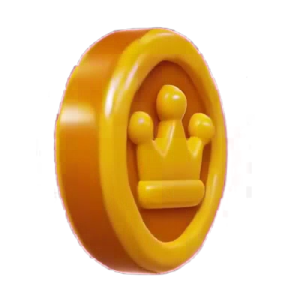
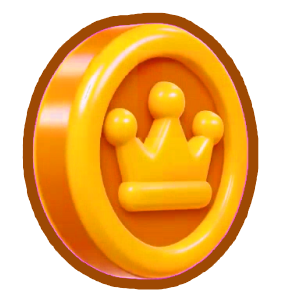
Coin: Allan's brighter coin with a lighter outline replaces the original (no toggle)
Claude-Session: https://claude.ai/code/session_01NtdD59FKe2D5p4YXTBGgrJ

diff --git a/index.html b/index.html
@@ -46,7 +46,6 @@ html.pitch #lvBar{order:3}html.pitch #top .grp{order:4}
 html.pitch #bRestart{display:none!important}
 #top{z-index:21}
 html.winning #lvBar,html.winning #top .grp{visibility:hidden}
-.coin-bright .fly-coin{background-image:url(art/world/coin-spin-bright.png)}
 .fly-coin{position:absolute;left:0;top:0;z-index:40;width:34px;height:34px;pointer-events:none;will-change:transform;background:url(art/world/coin-spin.png) 0 0/408px 34px no-repeat;animation:cspin .55s steps(12) infinite}
 @keyframes cspin{to{background-position:-408px 0}}
 .fly-plus{position:absolute;z-index:41;pointer-events:none;font:700 36px/1 var(--f-display);color:#FFDE3D;text-shadow:0 2px 0 #5B3A60,2px 0 #5B3A60,-2px 0 #5B3A60,0 -2px #5B3A60;animation:fplus 1.1s ease-out forwards}
@@ -372,7 +371,6 @@ const TYPES={
 const FEEL=[
  ['starRule','Stars are for',0,0,0,'seg'],
  ['starBonus','Bank bonus per new star (star 1 ×1, 2 ×2, 3 ×3)',0,50,5,'coins'],
- ['coinArt','Coin picture',0,0,0,'seg'],
  ['art','World art',0,0,0,'seg'],
  ['anchor','Platforms with a base (auto)',0,0,0,'seg'],
  ['bgDepth','Background depth (parallax)',0,2,0.05,'×'],
@@ -419,9 +417,9 @@ const FEEL=[
  ['guideAlways','Tutorial every time (even after clearing)',0,1,1,'bool'],
  ['guideDouble','Double tutorial',0,0,0,'seg']
 ];
-const DEF={coinArt:'bright',starBonus:10,guideDouble:'rhythm',splashMin:2,guideAlways:1,music:1,musicVol:0.5,guide:1,starRule:'slams',art:'painted',anchor:'wide',bgDepth:1,gravity:2600,bounce:1000,speed:270,slamSpeed:2600,windup:0.04,slamMult:1.29,comboStep:1.06,comboMax:4,late:0.08,drift:0,springMult:1.65,brkHits:2,brkThrough:1,zoom:1,look:120,turn:'chain',shake:1,sound:1,bounceSfx:1,restartOnDeath:1,deathArc:1,phoneFrame:1,intro:'fly',goalArrow:1,skin:'spine',boingSize:1.5,poseBlend:0.08,tilt:12,squashAmt:1,showHitbox:0,fastTurn:1,fastWindow:0.28,quickTurnAny:1,turnSfx:'jingle',chainReset:1,lateFair:1,v2:1,v3:1};
+const DEF={starBonus:10,guideDouble:'rhythm',splashMin:2,guideAlways:1,music:1,musicVol:0.5,guide:1,starRule:'slams',art:'painted',anchor:'wide',bgDepth:1,gravity:2600,bounce:1000,speed:270,slamSpeed:2600,windup:0.04,slamMult:1.29,comboStep:1.06,comboMax:4,late:0.08,drift:0,springMult:1.65,brkHits:2,brkThrough:1,zoom:1,look:120,turn:'chain',shake:1,sound:1,bounceSfx:1,restartOnDeath:1,deathArc:1,phoneFrame:1,intro:'fly',goalArrow:1,skin:'spine',boingSize:1.5,poseBlend:0.08,tilt:12,squashAmt:1,showHitbox:0,fastTurn:1,fastWindow:0.28,quickTurnAny:1,turnSfx:'jingle',chainReset:1,lateFair:1,v2:1,v3:1};
 const TURNS=[['every','Every slam'],['chain','Every slam after the 1st'],['second','Every 2nd slam'],['never','Never']];
-const SEGS={coinArt:[['bright','Brighter, outlined'],['original','Original']],guideDouble:[['rhythm','Tap-tap (one stop)'],['steps','Stop for each tap']],starRule:[['slams','Few slams'],['goals','3 goals'],['coins','Coins buy back slams']],art:[['painted','Painted (concept)'],['greybox','Greybox'],['plain','Plain (old)']],anchor:[['wide','Wide ones'],['all','All'],['none','None']],turnSfx:[['jingle','Old DOUBLE jingle'],['whoosh','Whoosh'],['blip','Small blip'],['off','Off']],intro:[['fly','Fly from flag'],['zoom','Zoom out, then in'],['off','Off']],turn:TURNS,skin:[['spine','Boing (Spine)'],['boing','Boing (pictures)'],['ball','Shape']]};
+const SEGS={guideDouble:[['rhythm','Tap-tap (one stop)'],['steps','Stop for each tap']],starRule:[['slams','Few slams'],['goals','3 goals'],['coins','Coins buy back slams']],art:[['painted','Painted (concept)'],['greybox','Greybox'],['plain','Plain (old)']],anchor:[['wide','Wide ones'],['all','All'],['none','None']],turnSfx:[['jingle','Old DOUBLE jingle'],['whoosh','Whoosh'],['blip','Small blip'],['off','Off']],intro:[['fly','Fly from flag'],['zoom','Zoom out, then in'],['off','Off']],turn:TURNS,skin:[['spine','Boing (Spine)'],['boing','Boing (pictures)'],['ball','Shape']]};
 
 const MEM={};
 const CLOUD={kv:null,ready:false,booted:false,localDirty:false,timer:0,busy:false,again:false,ref:null};
@@ -1095,7 +1093,7 @@ function drawBall(x,y,dir,opts){
 // the walk line is pixel row 8 of every cap picture. Anchored platforms use the stone cap on a layered brick base,
 // floating ones use the plank platform. Falls back to the greybox until the pictures have loaded.
 const ART_K=0.55, ART_DIR='art/world/', ART_WALK=8;
-const WIMG={};for(const n of ['cap-left','cap-mid','cap-right','float-left','float-mid','float-right','base-mid','base-bricks','deco-banner','deco-vine','bg-far','cloud-1','cloud-2','cloud-3','brk-left','brk-mid','brk-right','brk2-left','brk2-mid','brk2-right','brk2-cracked-left','brk2-cracked-mid','brk2-cracked-right','spring','spring-squash','spikes-mid','goal-flag','coin-world','coin-spin','coin-spin-bright','piece-bits','elev-deck-left','elev-deck-mid','elev-deck-right','elev-rail','elev-rail-cap','elev-arrow']){const i=new Image();i.src=ART_DIR+n+'.png';WIMG[n]=i}
+const WIMG={};for(const n of ['cap-left','cap-mid','cap-right','float-left','float-mid','float-right','base-mid','base-bricks','deco-banner','deco-vine','bg-far','cloud-1','cloud-2','cloud-3','brk-left','brk-mid','brk-right','brk2-left','brk2-mid','brk2-right','brk2-cracked-left','brk2-cracked-mid','brk2-cracked-right','spring','spring-squash','spikes-mid','goal-flag','coin-world','coin-spin','piece-bits','elev-deck-left','elev-deck-mid','elev-deck-right','elev-rail','elev-rail-cap','elev-arrow']){const i=new Image();i.src=ART_DIR+n+'.png';WIMG[n]=i}
 const wimgOk=n=>{const i=WIMG[n];return i&&i.complete&&i.naturalWidth>0};
 const paintOn=()=>feel.art==='painted'&&wimgOk('cap-mid')&&wimgOk('base-bricks')&&wimgOk('bg-far');
 const LOOKC=new Map();
@@ -1139,7 +1137,7 @@ function drawPaintedSpikes(o){const im=WIMG['spikes-mid'];if(!paintOn()||!wimgOk
   const h=28,tw0=64*h/48,n=Math.max(1,Math.round(o.w/tw0)),tw=o.w/n;for(let i=0;i<n;i++)ctx.drawImage(im,o.x+i*tw,o.y-10,tw+0.5,h);return true}
 function drawPaintedGoal(o,t){const im=WIMG['goal-flag'];if(!paintOn()||!wimgOk('goal-flag'))return false;
   const k=0.6,w=120*k,h=200*k,sw=1+Math.sin(t*4)*0.03;ctx.save();ctx.translate(o.x,o.y+36);ctx.scale(sw,1);ctx.drawImage(im,-w/2,-h,w,h);ctx.restore();return true}
-function drawPaintedCoin(o,t){const CS=feel.coinArt==='original'||!wimgOk('coin-spin-bright')?'coin-spin':'coin-spin-bright';if(paintOn()&&wimgOk(CS)){ // Allan's spinning coin: 12 frames of 96 px in one strip
+function drawPaintedCoin(o,t){const CS='coin-spin';if(paintOn()&&wimgOk(CS)){ // Allan's spinning coin: 12 frames of 96 px in one strip
     const im=WIMG[CS],n=Math.round(im.naturalWidth/im.naturalHeight),fs=im.naturalHeight,f=Math.floor(t*16+o.x*0.05+o.y*0.03)%n,b=Math.sin(t*3+o.x*0.013)*3,d=38;
     ctx.drawImage(im,((f%n)+n)%n*fs,0,fs,fs,o.x-d/2,o.y+b-d/2,d,d);return true}
   const im=WIMG['coin-world'];if(!paintOn()||!wimgOk('coin-world'))return false;
@@ -1395,7 +1393,7 @@ $('s2Close').onclick=()=>{$('sheet2').hidden=true};
 $('sStars').onclick=()=>{const rows=pack.levels.map((lv,i)=>{const n=+store.get(lvStarKey(lv))||0;return `<button class="s2-row" data-i="${i}"><span>${i+1}. ${(lv.name||'Level').replace(/</g,'&lt;')}</span><span class="st">${'★'.repeat(n)}<span class="no">${'★'.repeat(3-n)}</span></span></button>`}).join('');
   sheet2(`Stars ${starTotals()}/${NLEV*3}`,rows);$('s2Body').querySelectorAll('.s2-row').forEach(b=>b.onclick=()=>{$('sheet2').hidden=true;setLevel(+b.dataset.i);hideStart();audio();tries=1;startPlay()})};
 $('sShop').onclick=()=>{const it=[['Jet Boost','Fly sideways until you tap',150],['Extra Bounce','One free save from a fall',80],['Golden Boing','Shiny new look',500]];
-  sheet2('Shop','<div class="s2-soon">Coming soon!</div>'+it.map(([n,d,c])=>`<div class="s2-row s2-item"><span>${n}<br><small style="font-weight:600;opacity:.8">${d}</small></span><b><img src="${coinUI()}" alt="">${c}</b></div>`).join(''))};
+  sheet2('Shop','<div class="s2-soon">Coming soon!</div>'+it.map(([n,d,c])=>`<div class="s2-row s2-item"><span>${n}<br><small style="font-weight:600;opacity:.8">${d}</small></span><b><img src="art/ui/coin.png" alt="">${c}</b></div>`).join(''))};
 $('pHome').onclick=()=>{$('pause').hidden=true;showStart()};
 // Boing bouncing at the bottom of the start screen, using his pose pictures
 let sAnimOn=false,SS=null;
@@ -1426,9 +1424,7 @@ function startAnim(){if(sAnimOn)return;sAnimOn=true;const cv=$('startCv'),c=cv.g
 let last=performance.now(),acc=0,hudT=0;
 const SPINE_P=spineBoot();
 let phoneOn=null;
-let coinCur='';function coinUI(){return feel.coinArt==='original'?'art/ui/coin.png':'art/ui/coin-bright.png'}
-function coinView(){if(feel.coinArt===coinCur)return;coinCur=feel.coinArt;document.documentElement.classList.toggle('coin-bright',coinCur!=='original');for(const i of document.querySelectorAll('img[src^="art/ui/coin"]'))i.src=coinUI()}
-function phoneView(){coinView();const on=!!feel.phoneFrame;if(on!==phoneOn){phoneOn=on;document.documentElement.classList.toggle('phone',on);resize()}}
+function phoneView(){const on=!!feel.phoneFrame;if(on!==phoneOn){phoneOn=on;document.documentElement.classList.toggle('phone',on);resize()}}
 phoneView();
 function frame(now){phoneView();
   if(SPLASH){last=now;requestAnimationFrame(frame);return} // the game waits behind the splash
@@ -1760,7 +1756,7 @@ function botTolerance(lv,plan){
     return {taps:base.ticks,win:win_,plan:plan.slice(0,base.used||plan.length)};
   } finally {botGive(keep)}
 }
-const LOOK_ONLY=new Set(['coinArt','starBonus','guideDouble','splashMin','guideAlways','music','musicVol','guide','starRule','art','bgDepth','anchor','skin','boingSize','poseBlend','tilt','squashAmt','showHitbox','zoom','look','shake','sound','bounceSfx','turnSfx','phoneFrame','intro','goalArrow','deathArc']);
+const LOOK_ONLY=new Set(['starBonus','guideDouble','splashMin','guideAlways','music','musicVol','guide','starRule','art','bgDepth','anchor','skin','boingSize','poseBlend','tilt','squashAmt','showHitbox','zoom','look','shake','sound','bounceSfx','turnSfx','phoneFrame','intro','goalArrow','deathArc']);
 // like botLevelHash, but ignores Feel settings that only change the look
 function botHashKey(lv){const f={};for(const k in feel)if(!LOOK_ONLY.has(k))f[k]=feel[k];const t=JSON.stringify(lv.objs)+JSON.stringify(lv.spawn)+JSON.stringify(f);let h=0;for(let i=0;i<t.length;i++)h=(h*31+t.charCodeAt(i))|0;return h}
 function botLevelHash(lv){return JSON.stringify(lv.objs)+JSON.stringify(lv.spawn)+JSON.stringify(feel)}

diff --git a/CLAUDE.md b/CLAUDE.md
@@ -46,7 +46,7 @@
 - Sound (2026-11-14): Allan's sounds in `audio/*.mp3` (his originals in `audio/src/`), loaded by `SND_FILES`, played with `play()`; the synth sounds are the fallback. Slam = `slambounce` (his first version; `slambounce3` was tried 2026-11-15 and reverted 2026-11-16 at his request, source kept in `audio/src/`; pitched up on a DOUBLE), turnaround = `sfxTurn()` synth on every turn (Feel `turnSfx`: `jingle` = the rising notes the old synth slam played on a DOUBLE, default; `whoosh`; `blip`; `off`), normal bounce = the old synth slam (`sfxSlam(1)`, his request), spring = `spring`, breakable smash = `break` (any breakable breaking), tough breakable's first hit = `crack` (Allan 2026-11-16; his wavs in `audio/src/breakable_*.wav`), death = `oof`, flag = `flag` then `victory-stinger`, popup stars = `star-1..3`. Music `world1-theme` loops from the top when a level starts, keeps playing through retries, stops at the flag (`musicStart()`/`musicStop()`; Feel `music`, `musicVol`).
 - Level start: `introStart()`/`introTick()` (Feel `intro`: `fly` = camera starts on the flag and glides to Boing, `zoom` = whole level shown then zooms in, `off`). Runs only on a level's first try, not after deaths or for the bot; a tap skips it. `drawGoalArrow()` pins a flag badge to the screen edge pointing at an off-screen flag (Feel `goalArrow`).
 - Drawing: `render()`, `drawObj()`, `drawBall()`, `drawBoing()`. Boing is drawn with his body's bottom on the hitbox's bottom, scaled by `boingSize` (default 1.5×; visual only, the hitbox never changes). He flips with direction. `pickPose()` chooses rise/apex/fall/land/slam/dead/win from his motion, and `drawBoing()` fades into the new pose over `poseBlend` s, with `tilt` and `squashAmt` (Feel sliders) on top.
-- World art (painted, `// ---------- world art (painted) ----------`): Feel `art` default `painted`. Pieces cut from Allan's ChatGPT concept (`art/world/src/concept-1.png`) by `python3 tools/cut_world.py` into `art/world/*.png` (needs opencv-python-headless): 3-slice caps `cap-*` (anchored) and `float-*` (plank platform), brick tile `base-bricks` (drawn crisp by `python3 tools/make_bricks.py`, running bond, 4 px per unit; `base-mid` is the old blurry cut, unused), decorations `deco-banner`/`deco-vine`, `bg-far` (mirrored so it loops), `cloud-1..3`. On 2026-11-13 ChatGPT repainted all of these at the same sizes (the first cuts are kept in `art/world/src/cut-v1/`; rerunning `cut_world.py`/`make_bricks.py` would overwrite ChatGPT's pieces) and added gameplay pieces: `brk-*`, `brk2-*`, `brk2-cracked-*` (3-slice like the caps), `spring`/`spring-squash`, `spikes-mid` (tiles), `goal-flag`, `coin-spin` (Allan's 12-frame spinning crown coin, 96 px frames in one strip; his source frames are in `art/world/src/coin-frames/`; frame 0 is also the popup's `art/ui/coin.png`; Allan's brighter outlined coin (2026-11-17, source frames in `art/world/src/coin-frames-bright/`) is `coin-spin-bright` + `art/ui/coin-bright.png`, the default; Feel `coinArt` (`bright`/`original`) switches every coin picture (`coinView()`, `coinUI()`, `html.coin-bright`); `coin-world` is ChatGPT's old placeholder, now only a fallback), `piece-bits` (rubble, chunk boxes in `BITS`). Drawn by `drawPaintedSlab/Spring/Spikes/Goal/Coin()`; the code drawing is the fallback. Bricks pattern scale 0.7. Allan tabled replacing the hot-air balloons with airships. Drawn at `ART_K` 0.55 units per pixel; walk line = pixel row 8 of each cap. Bases layer like the greybox. Pictures load from `art/world/`, so the artifact publish must include them via `files`.
+- World art (painted, `// ---------- world art (painted) ----------`): Feel `art` default `painted`. Pieces cut from Allan's ChatGPT concept (`art/world/src/concept-1.png`) by `python3 tools/cut_world.py` into `art/world/*.png` (needs opencv-python-headless): 3-slice caps `cap-*` (anchored) and `float-*` (plank platform), brick tile `base-bricks` (drawn crisp by `python3 tools/make_bricks.py`, running bond, 4 px per unit; `base-mid` is the old blurry cut, unused), decorations `deco-banner`/`deco-vine`, `bg-far` (mirrored so it loops), `cloud-1..3`. On 2026-11-13 ChatGPT repainted all of these at the same sizes (the first cuts are kept in `art/world/src/cut-v1/`; rerunning `cut_world.py`/`make_bricks.py` would overwrite ChatGPT's pieces) and added gameplay pieces: `brk-*`, `brk2-*`, `brk2-cracked-*` (3-slice like the caps), `spring`/`spring-squash`, `spikes-mid` (tiles), `goal-flag`, `coin-spin` (Allan's 12-frame spinning crown coin, 96 px frames in one strip; his source frames are in `art/world/src/coin-frames/`; frame 0 is also the popup's `art/ui/coin.png`; On 2026-11-17 Allan replaced the coin with a brighter one with a light outline (current frames in `art/world/src/coin-frames/`; the first coin is in `coin-frames-v1/`, a darker-outline try in `coin-frames-v2-dark-outline/`); the strip and popup coin are rebuilt by cropping all frames to their shared bounding box, 96 px per frame, popup coin 86 px; `coin-world` is ChatGPT's old placeholder, now only a fallback), `piece-bits` (rubble, chunk boxes in `BITS`). Drawn by `drawPaintedSlab/Spring/Spikes/Goal/Coin()`; the code drawing is the fallback. Bricks pattern scale 0.7. Allan tabled replacing the hot-air balloons with airships. Drawn at `ART_K` 0.55 units per pixel; walk line = pixel row 8 of each cap. Bases layer like the greybox. Pictures load from `art/world/`, so the artifact publish must include them via `files`.
 - World art (greybox, `// ---------- world art (greybox) ----------`): Feel `art` (`greybox` = world art, `plain` = old flat look), `anchor` (which platforms get a base on Auto: `wide` = 300+ units, `all`, `none`) and `bgDepth` (parallax). `drawWorldBg()` draws sky, clouds, far hills and mid towers at slower scroll speeds. `drawStructures()` draws what's under each bar piece, behind everything: `lookOf()` returns `base` (stone column going down and fading), `float` (small underside) or `none` (spring or spike sitting on a platform). Bases are layered Mario-style: lower platforms' bases in front, higher ones behind and hazier. Breakables always float. Allan dropped hanging chains (2026-11-13). Per-piece override: the editor's **Look** button (Auto / Ground / Floating), saved as `look` in the level code. `drawCap()` is the one cream cap style on every landable top. The art brief for the real art is the Claude Doc "Boing world art brief" (https://claude.ai/artifact/UvbRCNtPxKCcputYxKsy7j).
 - Levels: the campaign is `CAMPAIGN` (21 levels since CAMP_VER 3: level 7 is the **Elevator** bonus room, `bonus:true`, after Turnaround; saved CAMP_VER 2 packs get it spliced in by `campPack()` so Allan's edits survive). It was the 20-level campaign `CAMPAIGN` (each level has a `teach` list). `pack` holds 20 slots (saved under `sbl_pack`, tagged `camp:CAMP_VER`); `starter(i)` returns a fresh copy of `CAMPAIGN[i]`. A pack from before the campaign is backed up to `sbl_pack_old`. Bump `CAMP_VER` to push a new campaign over saved packs. Endless random world in `cell()`. Best times are saved under `sbl_best_<hash>`.
 - Level bot (`// ---------- level bot ----------`): `botSearch()` runs the real `step()` with `SIM=true` (no sound, buzz or saved times) and searches tap timings landing by landing. `botCheck()` solves a level, measures each tap's timing window (`botTolerance()`), and searches again with each `teach` move banned to find shortcuts. The **Bot** button opens the sheet with **Watch this level** (plays the bot's taps through `BOT.watch` in the real loop) and **Check all levels**. Headless: `node tools/check.mjs [levels.json]` prints the same table for the campaign or a file of levels.
